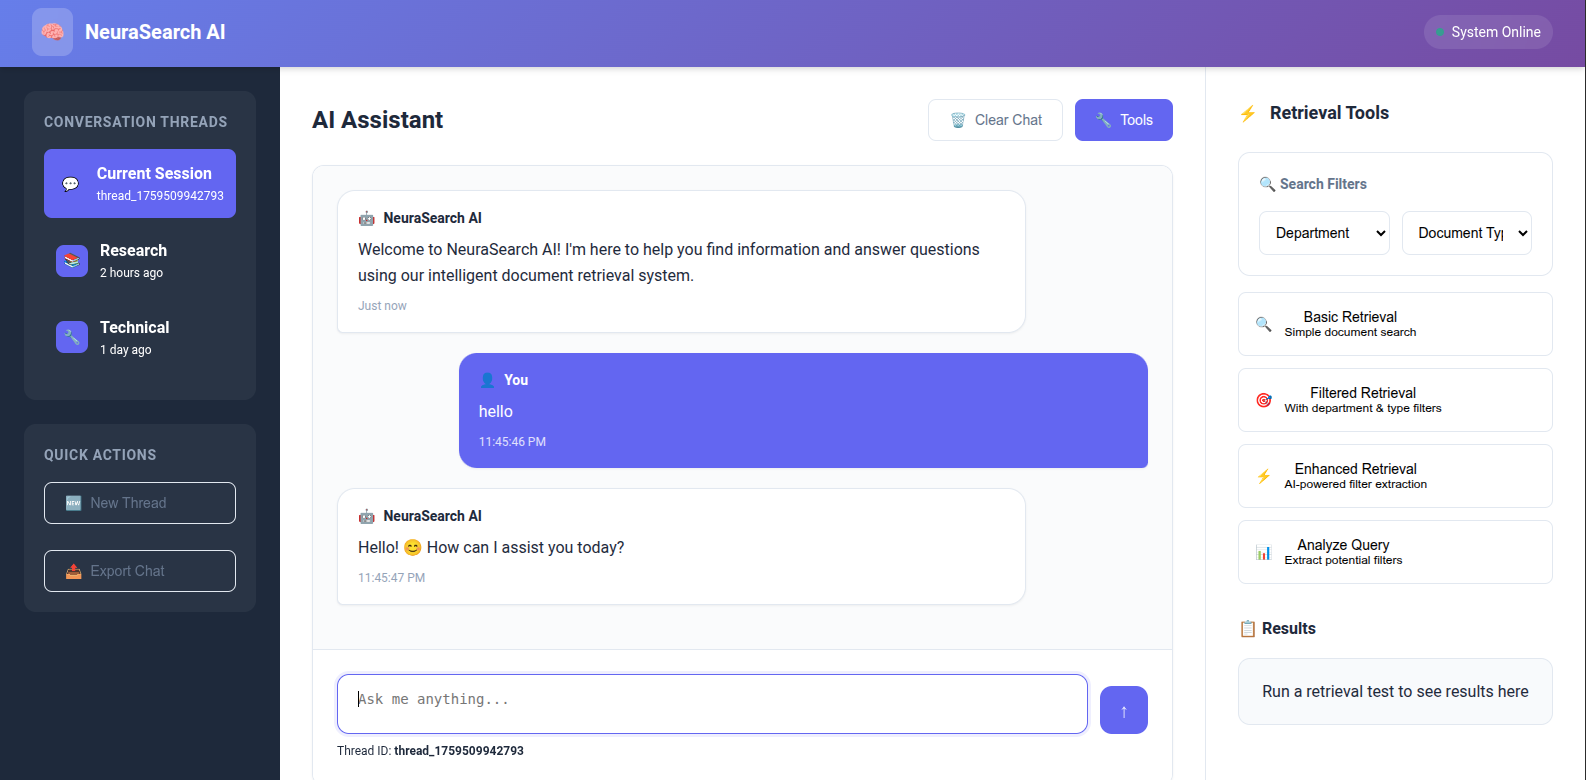
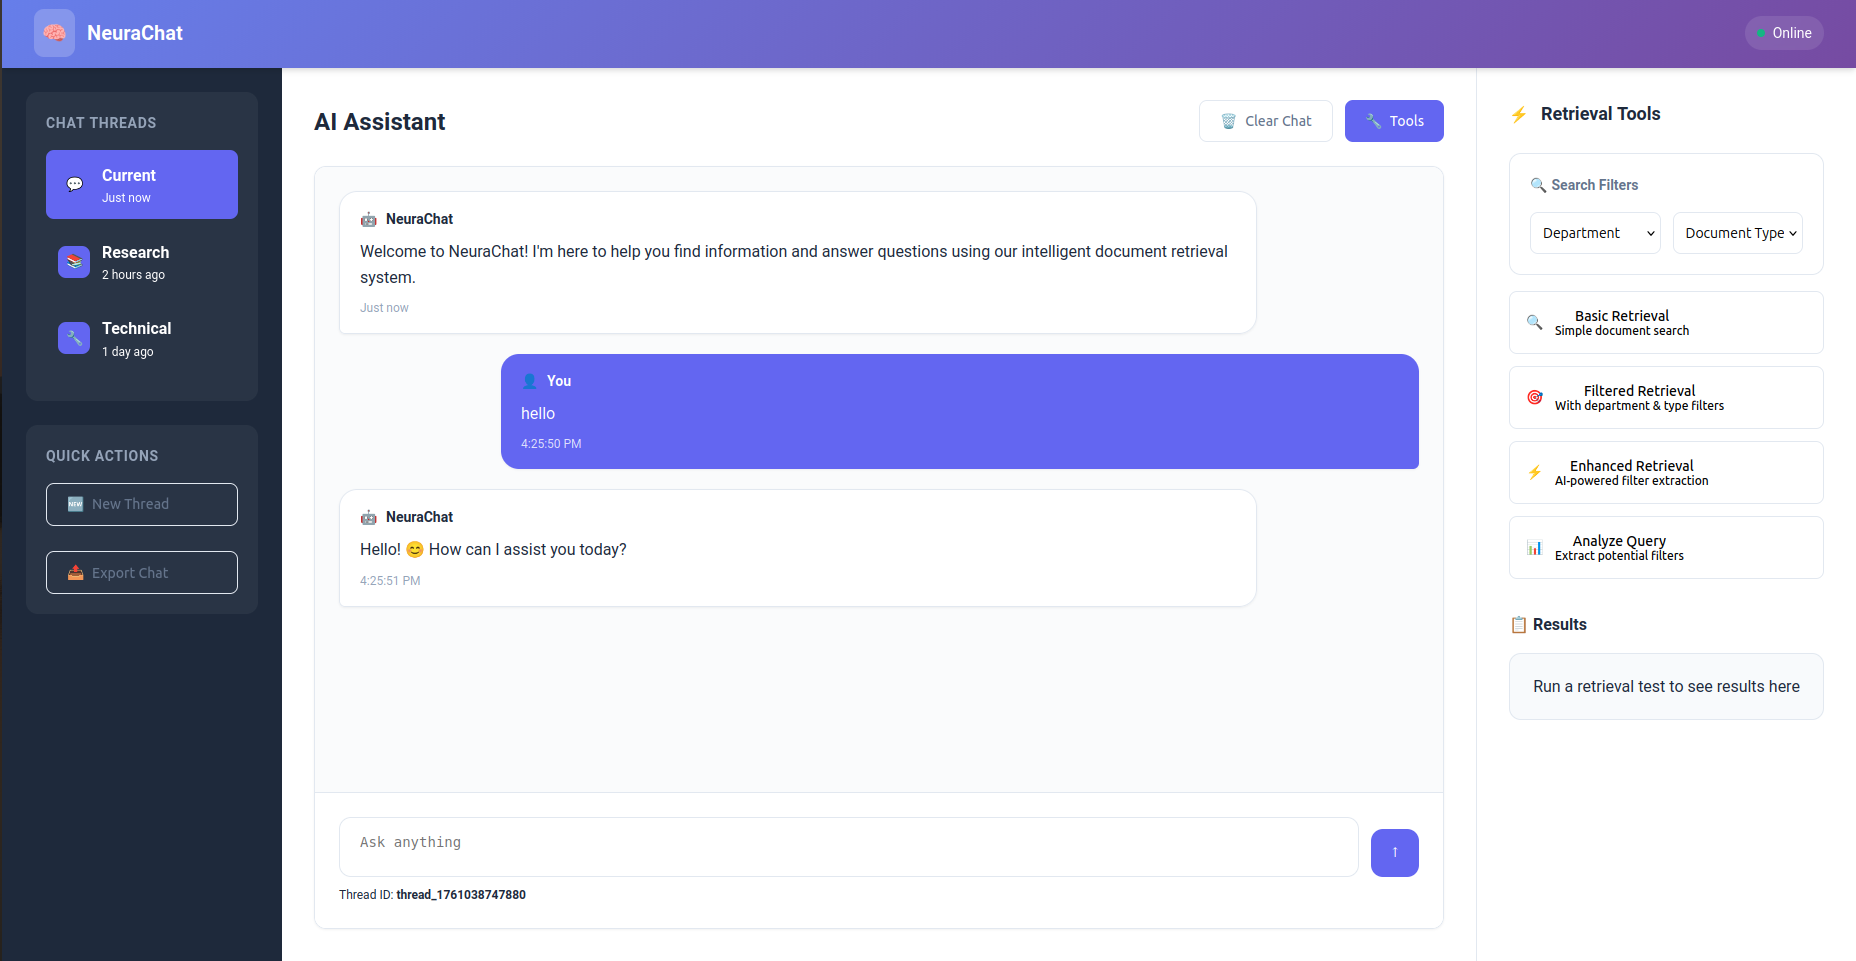
update static file

diff --git a/app/templates/index.html b/app/templates/index.html
@@ -4,7 +4,7 @@
     <meta charset="UTF-8">
     <meta name="viewport" content="width=device-width, initial-scale=1.0">
     <title>NeuraChat</title>
-    <link rel="icon" type="image/svg+xml" href="logo.svg">
+    <link rel="icon" type="image/svg+xml" href="/static/logo.svg">
     <style>
         :root {
             --primary-color: #6366f1;
@@ -645,7 +645,7 @@
                                 <span>🤖</span>
                                 <span>NeuraChat</span>
                             </div>
-                            Welcome to NeuraChat! I'm here to help you find information and answer questions using our intelligent document retrieval system.
+                            Welcome! How can I help you?
                             <div class="message-time">Just now</div>
                         </div>
                     </div>
@@ -745,7 +745,7 @@
     </div>
 
     <script>
-        const API_BASE = '';
+        const API_BASE = 'https://chatbot-api-s403.onrender.com';
         
         // DOM elements
         const chatbox = document.getElementById('chatbox');
@@ -780,7 +780,7 @@
                             <span>🤖</span>
                             <span>NeuraChat</span>
                         </div>
-                        Started new conversation thread. How can I help you today?
+                        Started new conversation thread. How can I help you?
                         <div class="message-time">Just now</div>
                     </div>
                 </div>

diff --git a/app/api/server.py b/app/api/server.py
@@ -3,6 +3,7 @@ from fastapi.templating import Jinja2Templates
 from fastapi import Request
 from app.api.endpoints import router as api_router
 from fastapi.middleware.cors import CORSMiddleware
+from fastapi.staticfiles import StaticFiles
 
 app = FastAPI(title="Chatbot API", version="1.0.0")
 
@@ -32,3 +33,6 @@ async def root(request: Request):
 @app.get("/health")
 async def health():
     return {"status": "ok", "message": "API is running!"}
+
+# Serve static files (CSS, JS, images, icons)
+app.mount("/static", StaticFiles(directory="static"), name="static")
